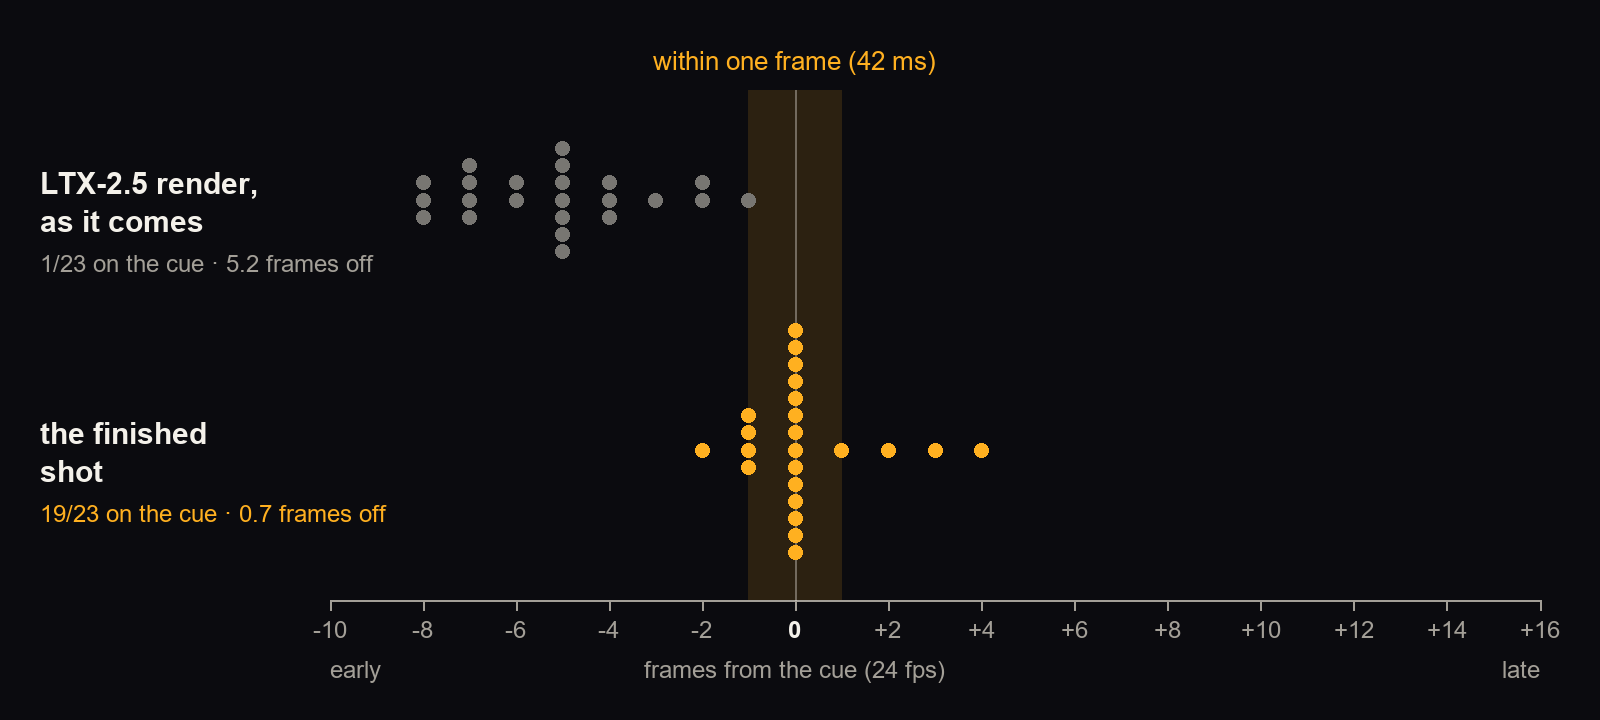
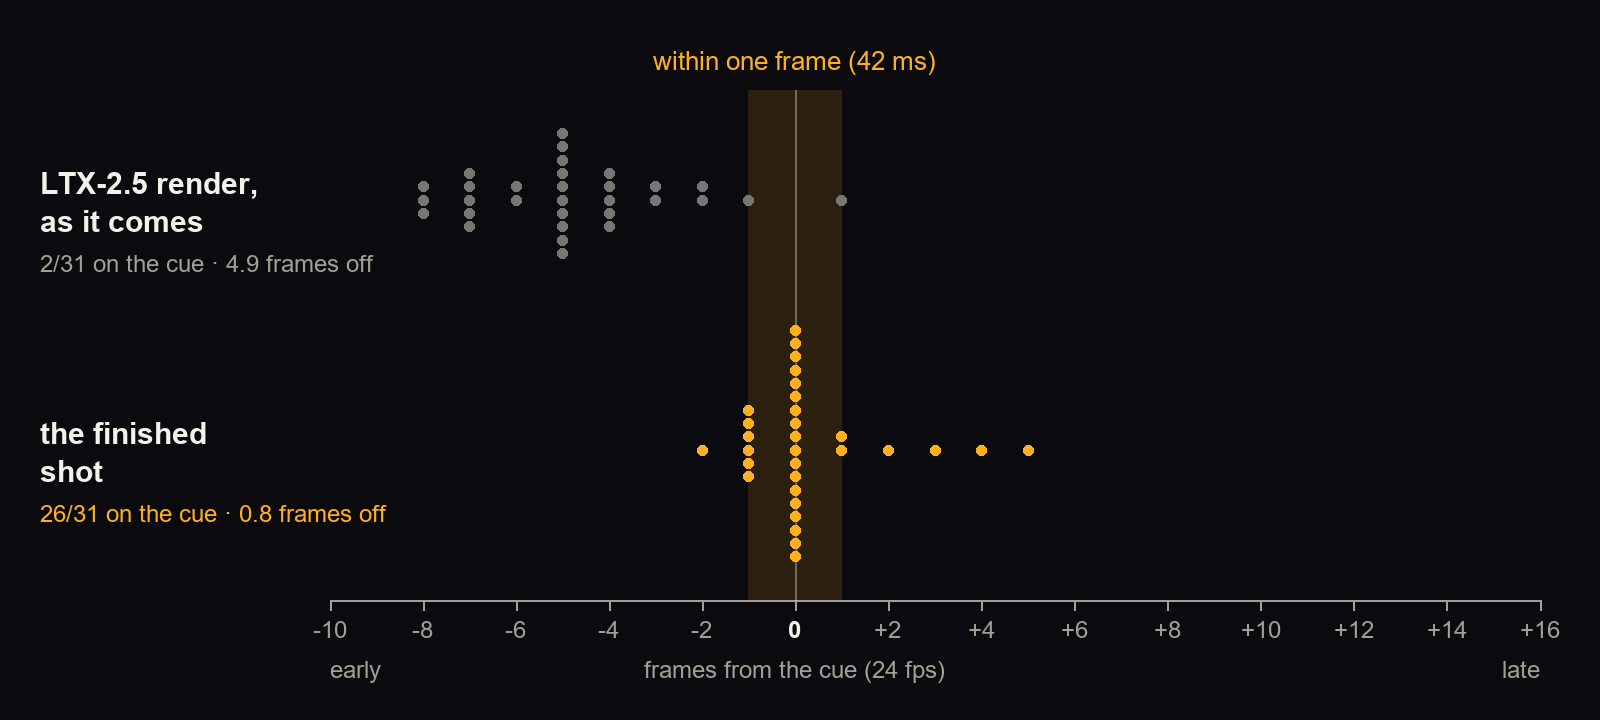
docs: timing re-marked by eye on the new renders (26 of 31 hits within a frame, 15 of 18 held out)

diff --git a/tools/measure_timing.py b/tools/measure_timing.py
@@ -1,6 +1,6 @@
 """How well do scene shots land on their cue? Every hit, as LTX-2.5 rendered it and in the finished shot.
 
-    python tools/measure_timing.py runs/precomputed/scene runs/extra_takes -o runs/timing
+    python tools/measure_timing.py runs/precomputed/scene runs/precomputed/scene.r5 runs/extra_takes -o runs/timing
 
 Where each hit shows on the raw render (render.mp4, before re-timing) is read from tools/timing_annotations.json:
 marked by eye, frame by frame (the first frame the effect is clearly there; for a blow-out, the first with no
@@ -98,7 +98,7 @@ def measure(d: Path, eye: list | None = None, group: str = "") -> dict | None:
         for k in range(len(events)):
             if k != main:
                 on[k] = onset_in(changed, want[k] + late - 6, want[k] + late + 6)
-    hits = [{"shot": d.name, "effect": eff["id"], "set": group or "detector", "hit": k + 1, "of": len(want),
+    hits = [{"shot": f"{d.parent.name}/{d.name}", "effect": eff["id"], "set": group or "detector", "hit": k + 1, "of": len(want),
              "cue_frame": start + want[k] + retime,
              "raw_error": None if o is None else o - want[k] - retime,
              "final_error": None if o is None else o + shift - want[k] - retime}
@@ -110,7 +110,7 @@ def measure(d: Path, eye: list | None = None, group: str = "") -> dict | None:
             pk = int(np.argmax(fire))
             low = np.nonzero(fire[pk:] < 0.25 * fire[pk])[0]
             s_ = None if not low.size else pk + int(low[0])
-            stop = {"shot": d.name, "effect": eff["id"], "voice_end": v,
+            stop = {"shot": f"{d.parent.name}/{d.name}", "effect": eff["id"], "voice_end": v,
                     "raw_latency": None if s_ is None else start + s_ - v,
                     "final_latency": None if s_ is None else start + shift + s_ - v}
     return {"hits": hits, "stop": stop}
@@ -202,7 +202,8 @@ def main() -> int:
     out.mkdir(parents=True, exist_ok=True)
     marks = json.loads(Path(a.marks).read_text(encoding="utf-8")) if Path(a.marks).exists() else {}
     eye = {name: (group, m) for group in ("calibration", "held_out") for name, m in marks.get(group, {}).items()}
-    found = [r for r in (measure(d, *(eye[d.name][::-1] if d.name in eye else (None, ""))) for d in shot_dirs(a.paths)) if r]
+    key = lambda d: f"{d.parent.name}/{d.name}"  # noqa: E731
+    found = [r for r in (measure(d, *(eye[key(d)][::-1] if key(d) in eye else (None, ""))) for d in shot_dirs(a.paths)) if r]
     rows = [h for r in found for h in r["hits"]]
     stops = [r["stop"] for r in found if r["stop"]]
     if not rows:

diff --git a/README.md b/README.md
@@ -86,17 +86,17 @@ Install the node pack (`comfyui-cuesync/` into `ComfyUI/custom_nodes/`, then `pi
 
 Every shot writes a receipt: the cue, where the hits were painted, how early or late the model put them, how far they were moved, whether the transfer passed its check. LTX-2.5 can only take the guide on an 8-frame grid (a third of a second at 24 fps), and it nearly always starts the effect a few frames early, so this measure-and-move step is what puts the hit on your cue.
 
-How well it works, marked by eye frame by frame on the raw renders of 22 shots ([`tools/timing_annotations.json`](tools/timing_annotations.json), [`tools/measure_timing.py`](tools/measure_timing.py)):
+How well it works, marked by eye frame by frame on the raw renders of 30 shots ([`tools/timing_annotations.json`](tools/timing_annotations.json), [`tools/measure_timing.py`](tools/measure_timing.py)):
 
 | | within one frame (42 ms) of the cue | mean error |
 |---|---|---|
-| LTX-2.5 render, as it comes | 1 of 23 hits | 5.2 frames |
-| the finished shot | 19 of 23 hits | 0.7 frames |
-| the finished shot, takes marked before the detector was tuned | 8 of 10 | |
+| LTX-2.5 render, as it comes | 2 of 31 hits | 4.9 frames |
+| the finished shot | 26 of 31 hits | 0.8 frames |
+| the finished shot, renders the onset threshold was not fitted on | 15 of 18 | |
 
 ![Timing: raw render vs finished shot](media/timing.png)
 
-The limits, measured the same way: in a rhythm LTX-2.5 sometimes merges two close hits into one (2 of 6 here); those are reported, not faked, and the rest move together. A flame dies down about half a second after the voice stops (median 14 frames), and one drawn flame plume kept burning to the end of the shot.
+The limits, measured the same way: in a rhythm LTX-2.5 often merges close hits into one (5 of 12 here); those are reported, not faked, and the rest move together. A flame dies down 0.4 to 0.9 s after the voice stops.
 
 **Element mode** (Advanced in the studio) is the other route: the effect is rendered alone on black and composited onto the untouched plate, with a SAM 2.1 object matte and a linear-light compositor ([`composite.py`](cuesync/src/cuesync/composite.py)).
 
